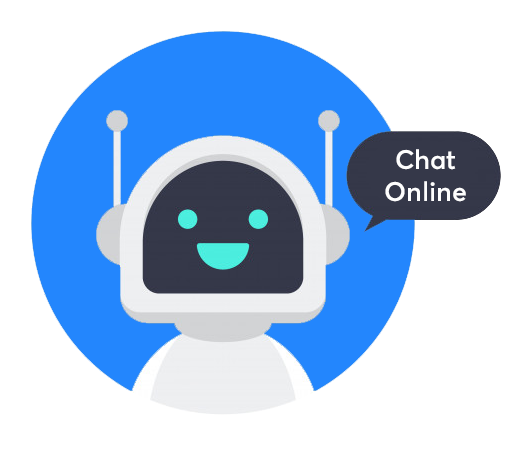
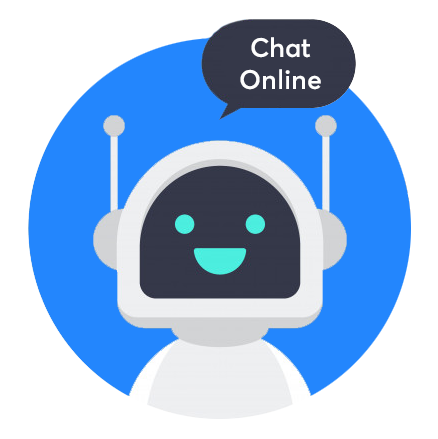
Help remodularizado

diff --git a/frontend/src/components/Help.js b/frontend/src/components/Help.js
@@ -16,22 +16,16 @@ export default function Help(){
             <div className="container--content-help">
                 <div className="div--content-title">
                     <h1>Como nós podemos te ajudar?</h1>
+                </div>               
+                
+                <div className="div--cleiton">
                 </div>
 
-                <div className="div--chart">
-                    <div className="revenue">
+                <div className="div--chats">
+                    <div className="onlinechat">
                     </div>
                     
-                    <div className="expense">
-                    </div>
-                </div>
-                
-                <div className="div--info">
-                    <div className="div--info-icon">
-                    </div>
-                    <div className="div--info-text">
-                        <h1>Aprenda como organizar sua agenda</h1>
-                        <p>Seus rendimentos dependem do seu tempo disponível. Quanto mais você escalar o seu negócio, mais resultados irá obter. Esse artigo aborda exatamente o passo a passo para...</p>
+                    <div className="whatsapp">
                     </div>
                 </div>
             </div>
@@ -57,43 +51,56 @@ export default function Help(){
             </div>
 
             <div className="container-questions--help">
-                <div className="div--topbuttons">
-                    <p className="p--subtitle">Dúvidas Frequentes</p>
-
-                    <div className="div--accordion-list">
-                        <Accordion
-                            question = {"Como faço para registrar reembolso?"}
-                            answer = {'Basta acessar a aba de clientes e clicar no botão: "Vincular Exame".'}
-                            />
-                        <Accordion
-                            question = {"Como faço para lançar receitas?"}
-                            answer = {'Basta clicar no botão "Inserir receita" na aba Receitas.'}
-                        />
-                        <Accordion
-                            question = {"Como faço para registrar reembolso?"}
-                            answer = {'Basta acessar a aba de clientes e clicar no botão: "Vincular Exame".'}
-                            />
-                        <Accordion
-                            question = {"Como faço para lançar receitas?"}
-                            answer = {'Basta clicar no botão "Inserir receita" na aba Receitas.'}
-                        />
-                        <Accordion
-                            question = {"Como faço para registrar reembolso?"}
-                            answer = {'Basta acessar a aba de clientes e clicar no botão: "Vincular Exame".'}
-                            />
-                        <Accordion
-                            question = {"Como faço para lançar receitas?"}
-                            answer = {'Basta clicar no botão "Inserir receita" na aba Receitas.'}
-                        />
-                        <Accordion
-                            question = {"Como faço para registrar reembolso?"}
-                            answer = {'Basta acessar a aba de clientes e clicar no botão: "Vincular Exame".'}
-                            />
-                        <Accordion
-                            question = {"Como faço para lançar receitas?"}
-                            answer = {'Basta clicar no botão "Inserir receita" na aba Receitas.'}
-                        />                  
-                    </div>
+                <p className="p--subtitle">Dúvidas Frequentes</p>
+                <div className="div--accordion-list">
+                <Accordion
+                        question = {"Como faço para registrar reembolso?"}
+                        answer = {'Basta acessar a aba de clientes e clicar no botão: "Vincular Exame".'}
+                    />
+                    <Accordion
+                        question = {"Como faço para lançar receitas?"}
+                        answer = {'Basta clicar no botão "Inserir receita" na aba Receitas.'}
+                    />
+                    <Accordion
+                        question = {"Como faço para registrar reembolso?"}
+                        answer = {'Basta acessar a aba de clientes e clicar no botão: "Vincular Exame".'}
+                    />
+                    <Accordion
+                        question = {"Como faço para registrar reembolso?"}
+                        answer = {'Basta acessar a aba de clientes e clicar no botão: "Vincular Exame".'}
+                    />
+                    <Accordion
+                        question = {"Como faço para lançar receitas?"}
+                        answer = {'Basta clicar no botão "Inserir receita" na aba Receitas.'}
+                    />
+                    <Accordion
+                        question = {"Como faço para registrar reembolso?"}
+                        answer = {'Basta acessar a aba de clientes e clicar no botão: "Vincular Exame".'}
+                    />
+                    <Accordion
+                        question = {"Como faço para registrar reembolso?"}
+                        answer = {'Basta acessar a aba de clientes e clicar no botão: "Vincular Exame".'}
+                    />
+                    <Accordion
+                        question = {"Como faço para lançar receitas?"}
+                        answer = {'Basta clicar no botão "Inserir receita" na aba Receitas.'}
+                    />
+                    <Accordion
+                        question = {"Como faço para registrar reembolso?"}
+                        answer = {'Basta acessar a aba de clientes e clicar no botão: "Vincular Exame".'}
+                    />
+                    <Accordion
+                        question = {"Como faço para registrar reembolso?"}
+                        answer = {'Basta acessar a aba de clientes e clicar no botão: "Vincular Exame".'}
+                    />
+                    <Accordion
+                        question = {"Como faço para lançar receitas?"}
+                        answer = {'Basta clicar no botão "Inserir receita" na aba Receitas.'}
+                    />
+                    <Accordion
+                        question = {"Como faço para registrar reembolso?"}
+                        answer = {'Basta acessar a aba de clientes e clicar no botão: "Vincular Exame".'}
+                    />
                 </div>
             </div>
         </div>

diff --git a/frontend/src/assets/css/Help.css b/frontend/src/assets/css/Help.css
@@ -3,6 +3,7 @@
     height: auto;
     display: flex;
     flex-direction: column;
+    margin-right: 10px;
 }
 .container--form-help{
     flex: 1 1;
@@ -14,6 +15,8 @@
     border-radius: 10px;
     color: white;
     padding: 20px;
+    margin-right: 10px;
+    margin-left: 10px;
 }
 .container--form-help form{
     display: flex;
@@ -35,6 +38,14 @@
     margin-bottom: 20px;
     font-family: 'Averta';
 }
+.container-questions--help .div--accordion-list{
+    margin-top: 15px;
+    margin-bottom: 15px;
+    overflow: auto;
+    flex: 1 1;
+    padding-right: 9px;
+    margin-right: -12px;
+}
 .container-questions--help{
     display: flex;
     flex: 1 1;
@@ -44,50 +55,25 @@
     flex-direction: column;
     align-items: center;
     padding: 20px;
-    overflow: auto;
+    margin-left: 10px;
 }
-.container--content-help .div--info{
+.container--content-help .div--cleiton{
+    background-image: url("../images/photo-cleiton.png");
     display: flex;
-    flex: 1;
+    flex: 1 1;
     border-radius: 10px;
     margin-top: 20px;
     margin-bottom: 20px;
     background-color: white;
-}
-.container--content-help .div--info:hover{
-    background-color: #2386fd;
-    cursor: pointer;
-}
-.container--content-help .div--info:hover h1, .container--content-help .div--info:hover p{
-    color: white;
-}
-.container--content-help .div--info-icon{
-    display: flex;
-    flex: 1;
-    background-image: url("../icons/pessoas-trabalhando.svg");
-    background-size: 50%;
-    background-position: 50%;
     background-repeat: no-repeat;
+    background-size: 85%;
+    background-position: 50%;
 }
-.container--content-help .div--info-text{
-    display: flex;
-    flex: 2 1;
-    flex-direction: column;
-    justify-content: center;
-    padding-right: 70px;
-}
-.container--content-help .div--info-text p{
-    text-align: justify;
-}
-.container--content-help .div--info-text h1{
-    font-size: 20px;
-    margin-bottom: 20px;
-}
-.container--content-help .div--chart{
+.container--content-help .div--chats{
     display: flex;
     flex: 1 1;
 }
-.container--content-help .div--chart .revenue{
+.container--content-help .div--chats .onlinechat{
     display: flex;
     flex: 1 1;
     border-radius: 10px;
@@ -97,32 +83,32 @@
     align-items: center;
     padding: 20px;
     justify-content: center;
-    background-image: url("../icons/profit--background-green2.svg");
+    background-image: url("../images/chatBot.png");
     background-repeat: no-repeat;
-    background-size: 15em;
-    background-position: -10px 7px;
+    background-size: 85%;
+    background-position: 50%;
 }
-.container--content-help .div--chart .revenue:hover{
+.container--content-help .div--chats .onlinechat:hover{
     cursor: pointer;
     background-color: #2386fd;
     background-image: url("../icons/profit--background-white2.svg");
 }
-.container--content-help .div--chart .expense{
+.container--content-help .div--chats .whatsapp{
     display: flex;
     flex: 1 1;
     border-radius: 10px;
     background-color: white;
-    margin-left: 10px;
+    margin-right: 10px;
     flex-direction: column;
     align-items: center;
     padding: 20px;
     justify-content: center;
-    background-image: url("../icons/expense--background-pink2.svg");
+    background-image: url("../images/whatsApp.png");
     background-repeat: no-repeat;
-    background-size: 15em;
-    background-position: 0px -50px;
+    background-size: 85%;
+    background-position: 50%;
 }
-.container--content-help .div--chart .expense:hover{
+.container--content-help .div--chats .whatsapp:hover{
     cursor: pointer;
     background-color: #2386fd;
     background-image: url("../icons/expense--background-white2.svg");
